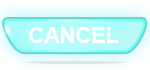
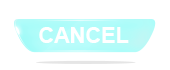
some html in name input panel

diff --git a/game/style.css b/game/style.css
@@ -157,7 +157,7 @@ body{
 	position:absolute;
 	top : 100%;
 	margin-top : -70px;
-	margin-left : 50px;
+	margin-left : 35px;
 	
 }
 
@@ -175,7 +175,7 @@ body{
 #sendRecordButton{
 	float : right;
 	background: url('img/menu/okoff.png') no-repeat scroll top left transparent;
-	width : 150px;
+	width : 170px;
 	height : 70px;
 }
 #sendRecordButton:hover{
@@ -184,10 +184,19 @@ body{
 
 #cancelRecordButton{
 	float : right;
-	background: url('img/menu/cancelon.png') no-repeat scroll top left transparent;
-	width : 150px;
+	background: url('img/menu/canceloff.png') no-repeat scroll top left transparent;
+	width : 170px;
 	height : 70px;
 }
 #cancelRecordButton:hover{
-	background: url('img/menu/canceloff.png') no-repeat scroll top left transparent;
+	background: url('img/menu/cancelon.png') no-repeat scroll top left transparent;
+}
+
+#playerName{
+	background: url(img/menu/input.png) no-repeat scroll top left transparent;
+	border : 0px;
+	width : 200px;
+	height : 30px;
+	padding-left : 10px;
+	outline: none;
 }

diff --git a/game/unit/enemy/EnemyManager.js b/game/unit/enemy/EnemyManager.js
@@ -105,7 +105,7 @@ EnemyManager.prototype.blow = function(unit)
 		anim.stop();
 		global.EnemyManager.enemiesCont.removeChild(anim);
 		anim = null;
-		global.EnemyManager.removeEnemy(unit);
+		//global.EnemyManager.removeEnemy(unit);
 	}
 	
 	//var scale = 0.6;
@@ -119,7 +119,7 @@ EnemyManager.prototype.blow = function(unit)
 	
 	unit.stopUnit = true;
 	
-	//global.EnemyManager.removeEnemy(unit);
+	global.EnemyManager.removeEnemy(unit);
 }
 
 EnemyManager.prototype.removeEnemy = function(enemy)

diff --git a/game/index.html b/game/index.html
@@ -290,8 +290,8 @@
 				Name: <input type="text" maxlength="10" id="playerName"/><br>
 			</div>
 			<div id="goButtons">
-				<div id="sendRecordButton" class="goButton"></div>
 				<div id="cancelRecordButton" class="goButton"></div>				
+				<div id="sendRecordButton" class="goButton"></div>
 			</div>
 		</div>	
 

diff --git a/game/unit/enemy/types/MediumEnemy.js b/game/unit/enemy/types/MediumEnemy.js
@@ -75,7 +75,7 @@ MediumEnemy.prototype.initOptions = function ()
 	this.damage = 10;
 	this.bulletRespawn = 3500 + Math.random()*1500;
 	this.bulletType = BulletTypes.SHOT_GUN;
-	this.minRange = 50;
+	this.minRange = 150;
 	this.maxRange = 500;
 }
 

diff --git a/game/unit/BaseUnit.js b/game/unit/BaseUnit.js
@@ -75,6 +75,7 @@ BaseUnit.prototype.checkHitBullet = function()
 			
 			global.BulletFactory.removeBullet(i);
 			len--;
+			i--;
 			
 			this.setUnitDamage(this, bull.damage);
 	
